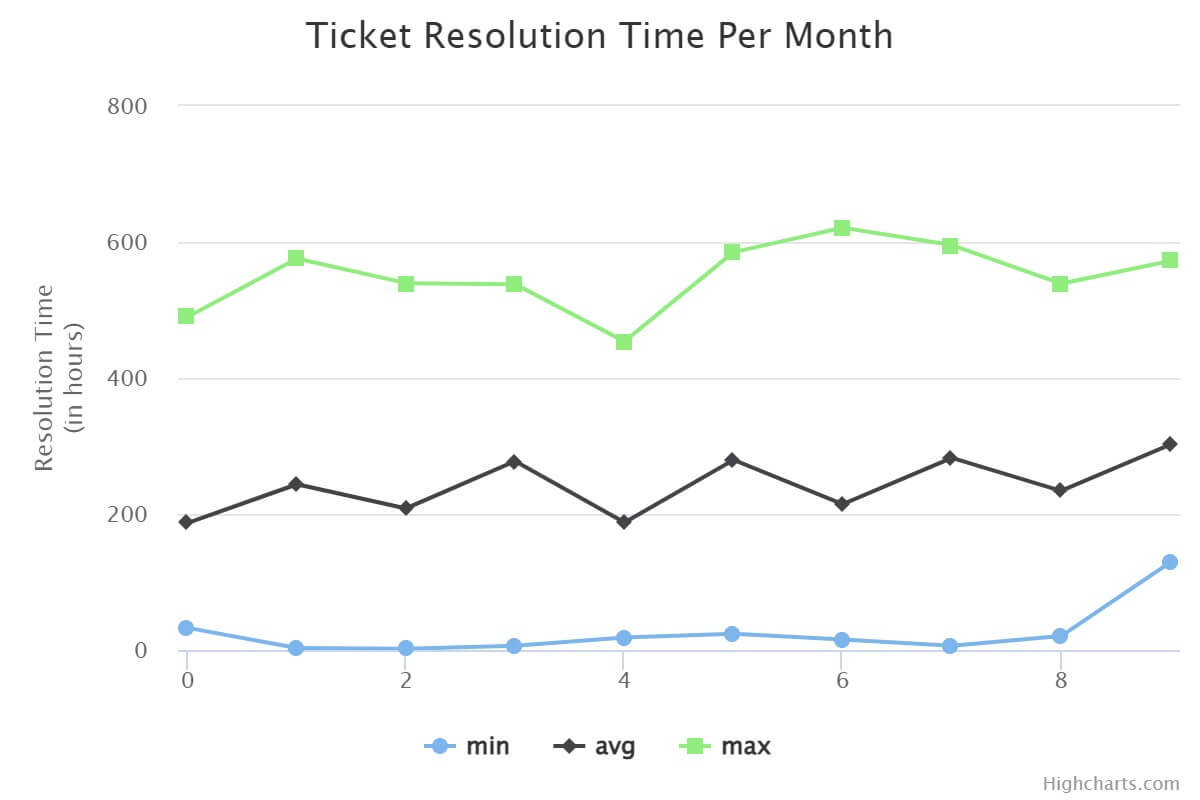
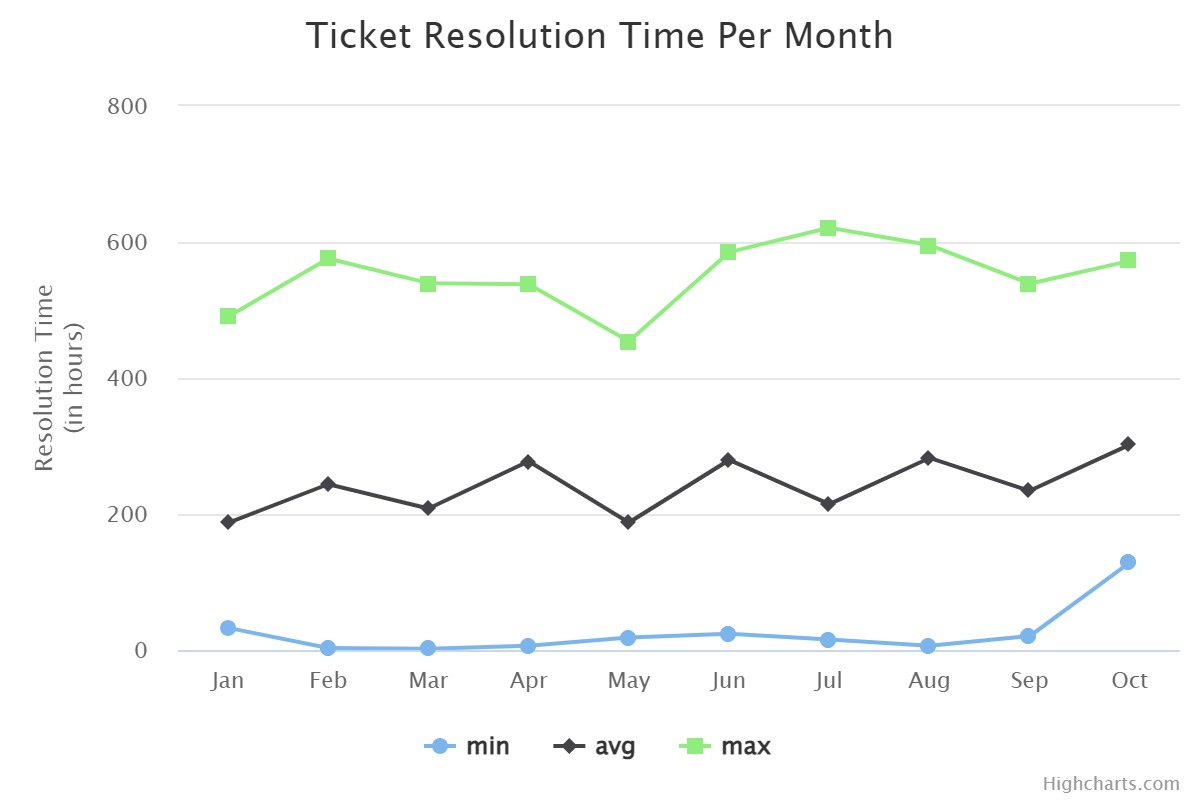
Edited Resolution Time Per Month Chart

diff --git a/js/scripts.js b/js/scripts.js
@@ -436,7 +436,7 @@ function getResolutionTimePerMonth() {
             avg_resolution_times: avg_resolution_times,
             max_resolution_times: max_resolution_times,
             min_resolution_times: min_resolution_times,
-            months: month_names
+            month_names: month_names
         });
     });
 }
